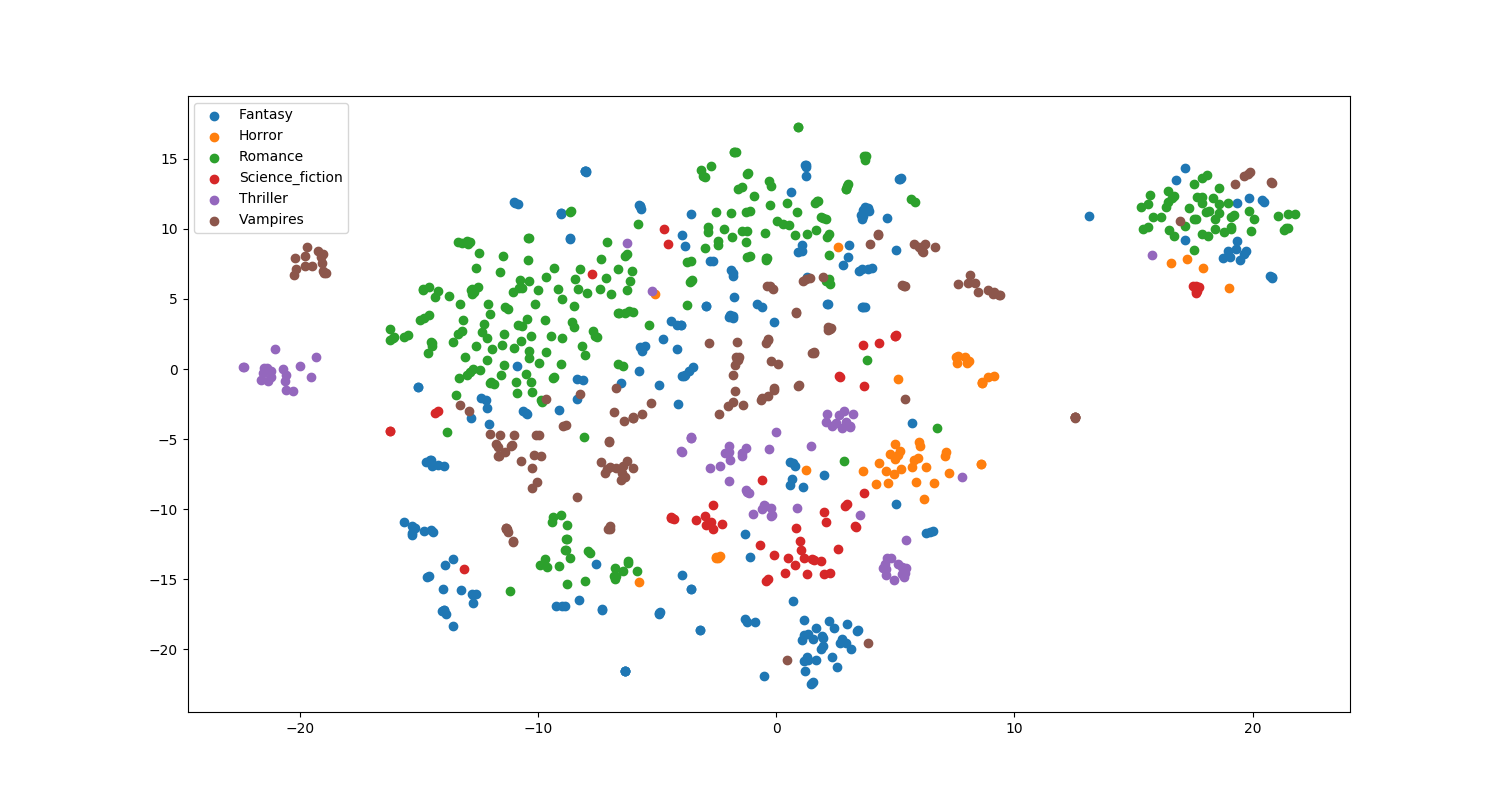
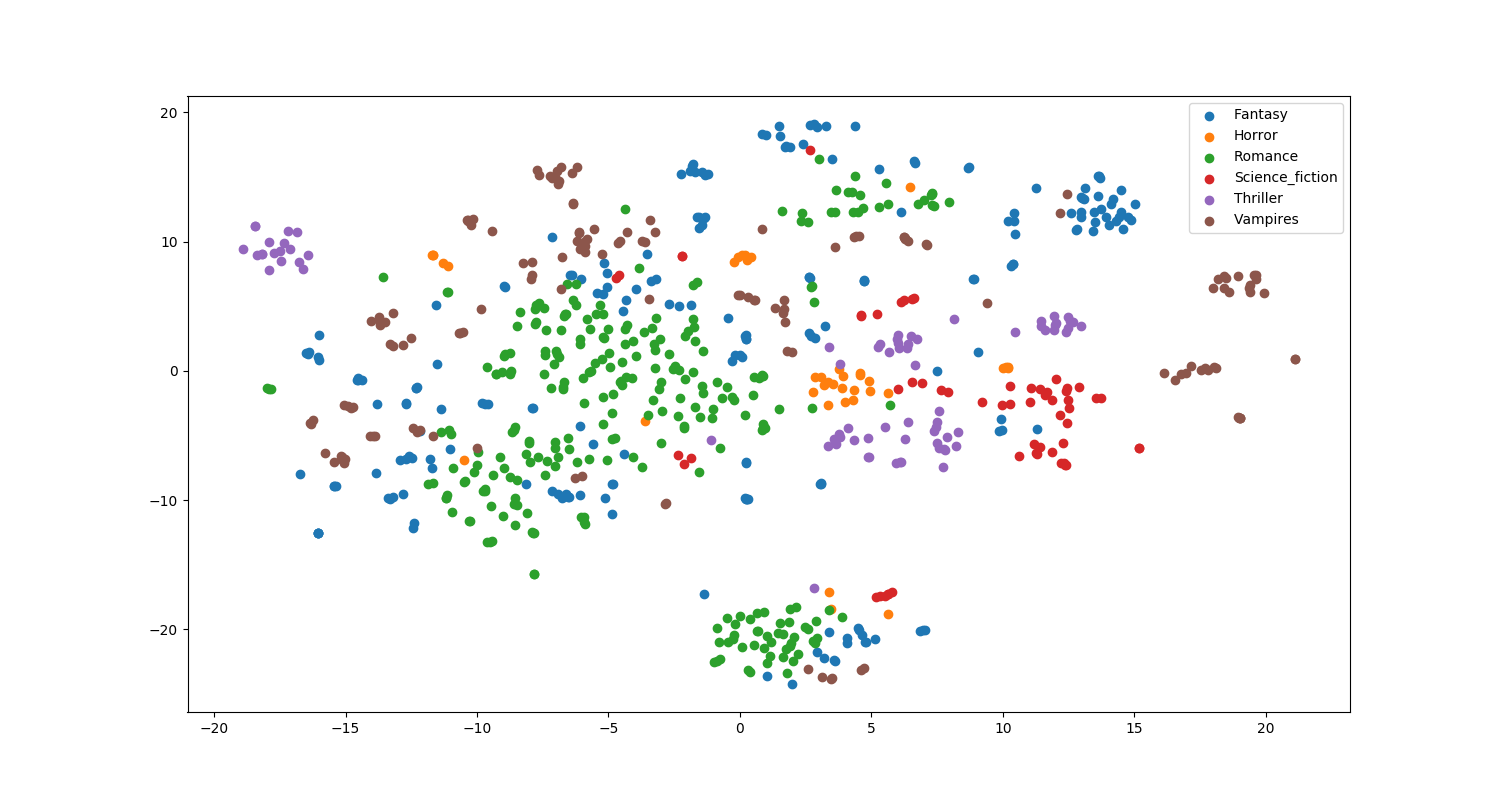
tried to play around with scripts

diff --git a/scripts/clean_par_vecs.py b/scripts/clean_par_vecs.py
@@ -2,9 +2,9 @@ import numpy as np
 from gensim.models.doc2vec import Doc2Vec
 import glob
 
-book_filenames = sorted(glob.glob('../data/Subset/*/*txt'))
+book_filenames = sorted(glob.glob('../data/BookCorpus/*/*txt'))
 vec_names = np.load('../models/vec_names_20k.npy').tolist()
-genre_names = sorted(glob.glob('../data/Subset/*'))
+genre_names = sorted(glob.glob('../data/BookCorpus/*'))
 
 for i in range(len(genre_names)):
     genre_names[i] = genre_names[i].split('/')[3]
@@ -24,22 +24,27 @@ model = Doc2Vec.load('../models/par2vec_'+str(vec_size)+'_'+str(int(par_length/1
 #print(list(model.docvecs.doctags.keys())[0])
 #print(vec_names[0])
 
-seq_lengths = [0]*len(book_filenames)
+num_vec = [0] * len(book_filenames)
 curr_seq_length = 0
 b = -1
 for vec_name in vec_names:
     if int(vec_name.split('_')[-1]) == 1:
-        print(vec_name)
         b += 1
-        print(book_filenames[b])
         curr_seq_length = 0
     if int(vec_name.split('_')[-1]) > curr_seq_length:
         curr_seq_length = int(vec_name.split('_')[-1])
-        seq_lengths[b] = curr_seq_length
+        num_vec[b] = curr_seq_length
 
-print(len(model.docvecs.vectors_docs))
+book_sequence_of_vectors = []
 
-book_sequence_of_vectors = [[[0] * 300]*max(seq_lengths)]*len(book_filenames)
+i = 0
+for b in range(len(book_filenames)):
+    bookseq = []
+    for p in range(num_vec[b]):
+        bookseq.append(model.docvecs[i])
+        i += 1
+    for q in range(num_vec[b], max(num_vec)):
+        bookseq.append([0]*300)
+    book_sequence_of_vectors.append(bookseq)
 
-
-
+np.save('../models/input.npy', book_sequence_of_vectors)

diff --git a/scripts/par2vec.py b/scripts/par2vec.py
@@ -5,9 +5,9 @@ import multiprocessing
 import numpy as np
 
 print("Searching for books.")
-book_filenames = sorted(glob.glob('../data/Subset/*/*.txt'))
+book_filenames = sorted(glob.glob('../data/BookCorpus/*/*.txt'))
 
-par_length = 10000
+par_length = 50000
 
 paragraph_corpus = []
 vec_names = []
@@ -19,8 +19,8 @@ for book_filename in book_filenames:
             paragraph_corpus.append(
                 TaggedDocument(
                     gensim.utils.simple_preprocess(
-                        par), ['{}'.format(book_filename[0:len(book_filename)-4]) + '_par_' + str(p)]))
-            vec_names.append('{}'.format(book_filename[0:len(book_filename)-4]) + '_par_' + str(p))
+                        par), [book_filename[0:len(book_filename)-4] + '_par_' + str(p)]))
+            vec_names.append(book_filename[0:len(book_filename)-4] + '_par_' + str(p))
             p += 1
 
 np.save('../models/vec_names_'+str(int(par_length/1000))+'k.npy', vec_names)

diff --git a/scripts/book2vec.py b/scripts/book2vec.py
@@ -4,7 +4,7 @@ from gensim.models.doc2vec import Doc2Vec, TaggedDocument
 import multiprocessing
 
 print("Searching for books.")
-book_filenames = sorted(glob.glob('../data/Subset/*/*txt'))
+book_filenames = sorted(glob.glob('../data/BookCorpus/*/*txt'))
 
 book_corpus = []
 errors = 0
@@ -14,7 +14,7 @@ for book_filename in book_filenames:
             book_corpus.append(
                 TaggedDocument(
                     gensim.utils.simple_preprocess(
-                        book_file.read()), ['{}'.format(book_filename)]))
+                        book_file.read()), [book_filename]))
     except:
         errors += 1
 
@@ -29,7 +29,7 @@ print('Total number of words: ' + str(words))
 
 cores = multiprocessing.cpu_count()
 
-vec_size = 50
+vec_size = 10
 
 model = Doc2Vec(size = vec_size, min_count = 5, workers=cores, alpha = 0.025, min_alpha=0.025, iter=10)
 #model = Doc2Vec(size = 300, min_count = 5, workers=cores, iter = 10)

diff --git a/scripts/book2vec_sample.py b/scripts/book2vec_sample.py
@@ -1,14 +1,20 @@
 import glob
 from gensim.models.doc2vec import Doc2Vec
 
-book_filenames = sorted(glob.glob('../data/Subset/*/*txt'))
 
-model = Doc2Vec.load('../models/book2vec_50.doc2vec')
+book_filenames = sorted(glob.glob('../data/BookCorpus/*/*txt'))
 
-#print(model.docvecs.most_similar(book_filenames.index("Documents/BookCorpus/Subset/Romance/Wild_About_You_1.txt")))
-print(model.docvecs.most_similar(book_filenames.index("../data/Subset/Fantasy/Mistborn-1.txt")))
+model = Doc2Vec.load('../models/book2vec_10.doc2vec')
 
+print(model.docvecs.most_similar(book_filenames.index("../data/BookCorpus/Fantasy/Mistborn-1.txt")))
 
+'''
+script_filenames = sorted(glob.glob('../data/ScriptCorpus/*/*txt'))
+
+model = Doc2Vec.load('../models/script2vec_300.doc2vec')
+
+print(model.docvecs.most_similar(script_filenames.index("../data/ScriptCorpus/Fantasy/batman.txt")))
+'''
 
 '''
 for book_filename in book_filenames:

diff --git a/scripts/par2vec_scatter.py b/scripts/par2vec_scatter.py
@@ -4,9 +4,12 @@ from gensim.models.doc2vec import Doc2Vec
 import matplotlib.pyplot as plt
 import numpy as np
 
-book_filenames = sorted(glob.glob('../data/Subset/*/*txt'))
-vec_names = np.load('../models/vec_names_50k.npy').tolist()
-genre_names = sorted(glob.glob('../data/Subset/*'))
+vec_size = 300
+par_length = 20000
+
+book_filenames = sorted(glob.glob('../data/BookCorpus/*/*txt'))
+vec_names = np.load('../models/vec_names_'+str(int(par_length/1000))+'k.npy').tolist()
+genre_names = sorted(glob.glob('../data/BookCorpus/*'))
 
 for i in range(len(genre_names)):
     genre_names[i] = genre_names[i].split('/')[3]
@@ -20,8 +23,6 @@ for vec_name in vec_names:
 
 load = False
 
-vec_size = 300
-par_length = 20000
 
 if not load:
     model = Doc2Vec.load('../models/par2vec_'+str(vec_size)+'_'+str(int(par_length/1000))+'k.doc2vec')

diff --git a/scripts/find_mult_books.py b/scripts/find_mult_books.py
@@ -4,14 +4,18 @@ from gensim.models.doc2vec import Doc2Vec, TaggedDocument
 import multiprocessing
 import os
 
-print("Searching for books.")
-book_filenames = sorted(glob.glob('../data/Subset/*/*txt'))
-book_filepaths = sorted(glob.glob('../data/Subset/*/*txt'))
+book_filenames = sorted(glob.glob('../data/ScriptCorpus/*/*txt'))
+book_filepaths = sorted(glob.glob('../data/ScriptCorpus/*/*txt'))
 
 for i in range(len(book_filenames)):
     book_filenames[i] = book_filenames[i].split('/')[4]
+
+i = 0
 
 for book_filename1 in book_filenames:
     for book_filename2 in book_filenames[book_filenames.index(book_filename1)+1:]:
         if book_filename1 == book_filename2:
             print(book_filepaths[book_filenames.index(book_filename1)])
+            i += 1
+
+print('{} duplicates.'.format(i))

diff --git a/scripts/book2vec_scatter.py b/scripts/book2vec_scatter.py
@@ -4,8 +4,8 @@ from gensim.models.doc2vec import Doc2Vec
 import matplotlib.pyplot as plt
 import numpy as np
 
-book_filenames = sorted(glob.glob('../data/Subset/*/*txt'))
-genre_names = sorted(glob.glob('../data/Subset/*'))
+book_filenames = sorted(glob.glob('../data/BookCorpus/*/*txt'))
+genre_names = sorted(glob.glob('../data/BookCorpus/*'))
 
 for i in range(len(genre_names)):
     genre_names[i] = genre_names[i].split('/')[3]
@@ -20,7 +20,7 @@ for book_filename in book_filenames:
 
 load = False
 
-vec_size = 600
+vec_size = 50
 
 if not load:
     model = Doc2Vec.load('../models/book2vec_'+str(vec_size)+'.doc2vec')

diff --git a/scripts/book2vec_similarities.py b/scripts/book2vec_similarities.py
@@ -3,7 +3,7 @@ from gensim.models.doc2vec import Doc2Vec
 import matplotlib.pyplot as plt
 
 
-book_filenames = sorted(glob.glob('Documents/BookCorpus/Subset/*/*txt'))
+book_filenames = sorted(glob.glob('../data/BookCorpus/*/*txt'))
 
 model = Doc2Vec.load('../models/book2vec_300.doc2vec')
 

diff --git a/scripts/delete_small_books.py b/scripts/delete_small_books.py
@@ -2,7 +2,7 @@ import glob
 import os
 
 print("Searching for books.")
-book_filenames = sorted(glob.glob('../data/Subset/*/*txt'))
+book_filenames = sorted(glob.glob('../data/BookCorpus/*/*txt'))
 
 for book_filename in book_filenames:
     if len(open(book_filename, 'r').read()) < 50000:

diff --git a/scripts/test.py b/scripts/test.py
@@ -1,0 +1,4 @@
+import numpy as np
+
+data = np.load('../models/input.npy')
+print(data[811][40])
